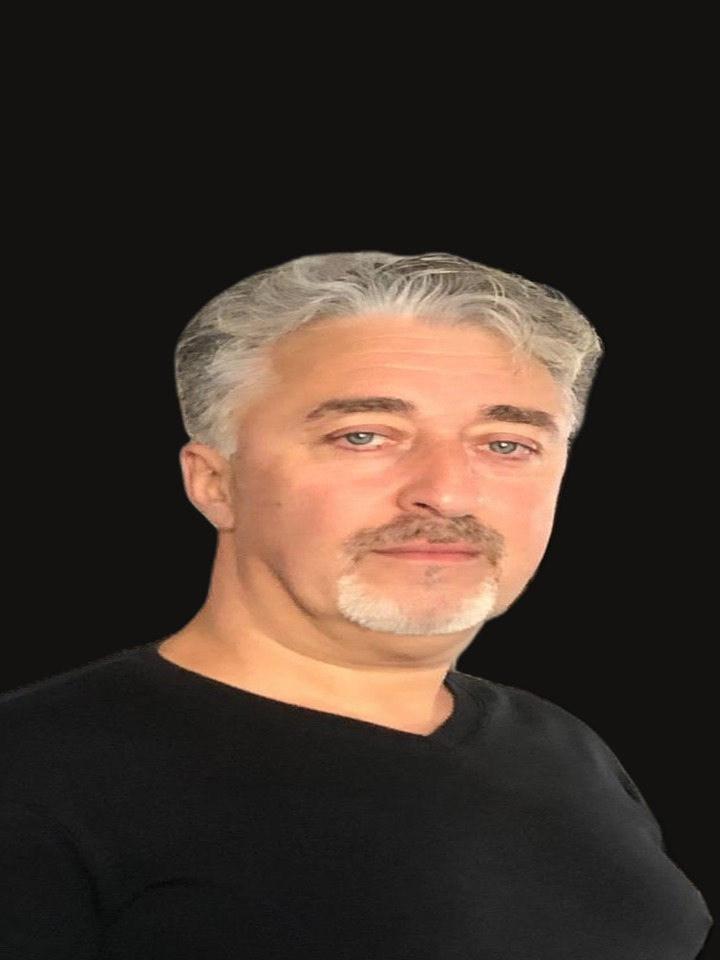
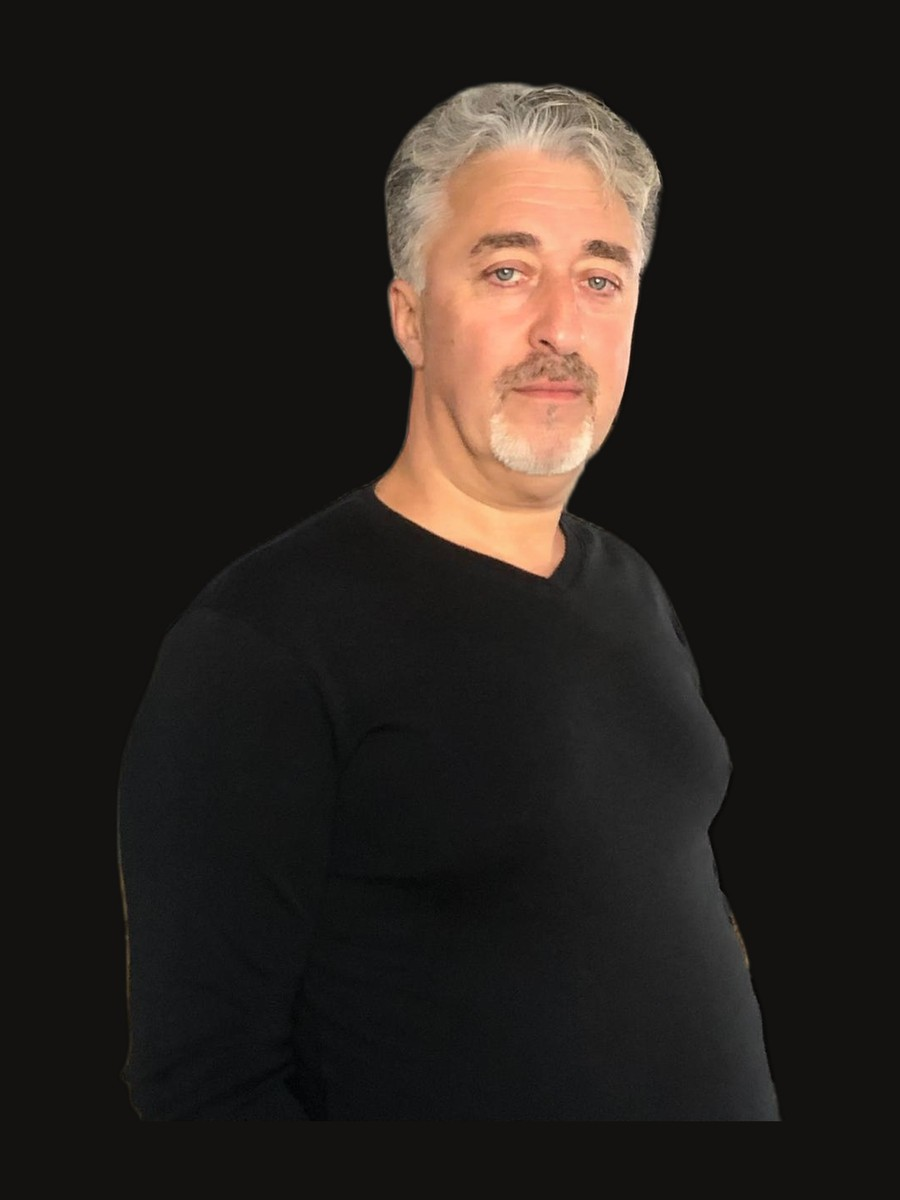
Restore natural portrait proportions without stretching

diff --git a/src/app/(public)/page.tsx b/src/app/(public)/page.tsx
@@ -12,20 +12,24 @@ export default function HomePage() {
 
   return (
     <>
-      <section className="relative min-h-[88dvh] overflow-hidden border-b border-border">
-        <Image
-          src={siteConfig.portraitSrc}
-          alt={siteConfig.portraitAlt}
-          fill
-          priority
-          className="object-cover object-[center_20%] scale-105"
-          sizes="100vw"
-        />
+      <section className="relative min-h-[88dvh] overflow-hidden border-b border-border bg-bg">
+        <div className="absolute inset-0 flex items-stretch justify-center sm:justify-end">
+          <div className="relative h-full w-full max-w-xl sm:max-w-2xl md:max-w-3xl">
+            <Image
+              src={siteConfig.portraitSrc}
+              alt={siteConfig.portraitAlt}
+              fill
+              priority
+              className="object-contain object-bottom sm:object-[center_right]"
+              sizes="(max-width: 640px) 100vw, 60vw"
+            />
+          </div>
+        </div>
         <div
-          className="absolute inset-0 bg-gradient-to-t from-bg via-bg/75 to-bg/25"
+          className="absolute inset-0 bg-gradient-to-t from-bg via-bg/70 to-bg/20"
           aria-hidden
         />
-        <div className="absolute inset-0 bg-gradient-to-l from-bg/80 via-transparent to-transparent max-sm:hidden" aria-hidden />
+        <div className="absolute inset-0 bg-gradient-to-l from-bg via-bg/40 to-transparent max-sm:hidden" aria-hidden />
 
         <div className="relative z-10 mx-auto flex min-h-[88dvh] max-w-6xl flex-col justify-end px-4 pb-16 pt-28 sm:justify-center sm:pb-24">
           <p className="animate-fade-up text-sm uppercase tracking-[0.2em] text-accent">

diff --git a/src/app/(public)/about/page.tsx b/src/app/(public)/about/page.tsx
@@ -8,12 +8,12 @@ export const metadata = { title: "על אלכס" };
 export default function AboutPage() {
   return (
     <div className="mx-auto max-w-3xl px-4 py-12">
-      <div className="relative mb-8 aspect-[4/5] max-w-sm overflow-hidden bg-bg-soft sm:aspect-[3/4]">
+      <div className="relative mb-8 aspect-[3/4] max-w-sm overflow-hidden bg-bg-soft">
         <Image
           src={siteConfig.portraitSrc}
           alt={siteConfig.portraitAlt}
           fill
-          className="object-cover object-top"
+          className="object-contain object-bottom"
           sizes="(max-width: 640px) 100vw, 384px"
           priority
         />

diff --git a/scripts/fix-portrait.py b/scripts/fix-portrait.py
@@ -1,0 +1,60 @@
+from pathlib import Path
+
+import numpy as np
+from PIL import Image
+from rembg import new_session, remove
+
+orig_path = Path("public/images/alex-garibian-original.jpg")
+out_path = Path("public/images/alex-garibian.jpg")
+
+orig = Image.open(orig_path).convert("RGB")
+print("orig", orig.size)
+
+session = new_session("u2net_human_seg")
+cut = remove(orig, session=session)
+arr = np.array(cut)
+alpha = arr[:, :, 3]
+ys, xs = np.where(alpha > 20)
+x0, x1 = int(xs.min()), int(xs.max())
+y0, y1 = int(ys.min()), int(ys.max())
+print("subject bbox", x0, y0, x1, y1, "size", x1 - x0, y1 - y0, "ratio", (x1 - x0) / (y1 - y0))
+
+bw, bh = x1 - x0, y1 - y0
+pad_x = int(bw * 0.08)
+pad_y = int(bh * 0.06)
+x0 = max(0, x0 - pad_x)
+y0 = max(0, y0 - pad_y)
+x1 = min(arr.shape[1] - 1, x1 + pad_x)
+y1 = min(arr.shape[0] - 1, y1 + pad_y)
+
+subject = cut.crop((x0, y0, x1 + 1, y1 + 1))
+sw, sh = subject.size
+print("padded subject", sw, sh, "ratio", sw / sh)
+
+target_ratio = 3 / 4
+out_h = 1600
+out_w = int(out_h * target_ratio)
+
+scale = min(out_w / sw, out_h / sh) * 0.92
+nw, nh = int(sw * scale), int(sh * scale)
+subject_r = subject.resize((nw, nh), Image.Resampling.LANCZOS)
+
+bg = Image.new("RGBA", (out_w, out_h), (19, 18, 16, 255))
+ox = (out_w - nw) // 2
+oy = max(0, int((out_h - nh) * 0.18))
+bg.paste(subject_r, (ox, oy), subject_r)
+
+web = bg.convert("RGB").resize((900, 1200), Image.Resampling.LANCZOS)
+web.save(out_path, "JPEG", quality=90, optimize=True)
+print("saved", out_path, web.size, "bytes", out_path.stat().st_size)
+
+arr2 = np.array(web)
+mask = arr2.mean(axis=2) > 35
+ys2, xs2 = np.where(mask)
+print(
+    "final subject frac",
+    (xs2.max() - xs2.min()) / web.size[0],
+    (ys2.max() - ys2.min()) / web.size[1],
+    "subj_ratio",
+    (xs2.max() - xs2.min()) / (ys2.max() - ys2.min()),
+)
